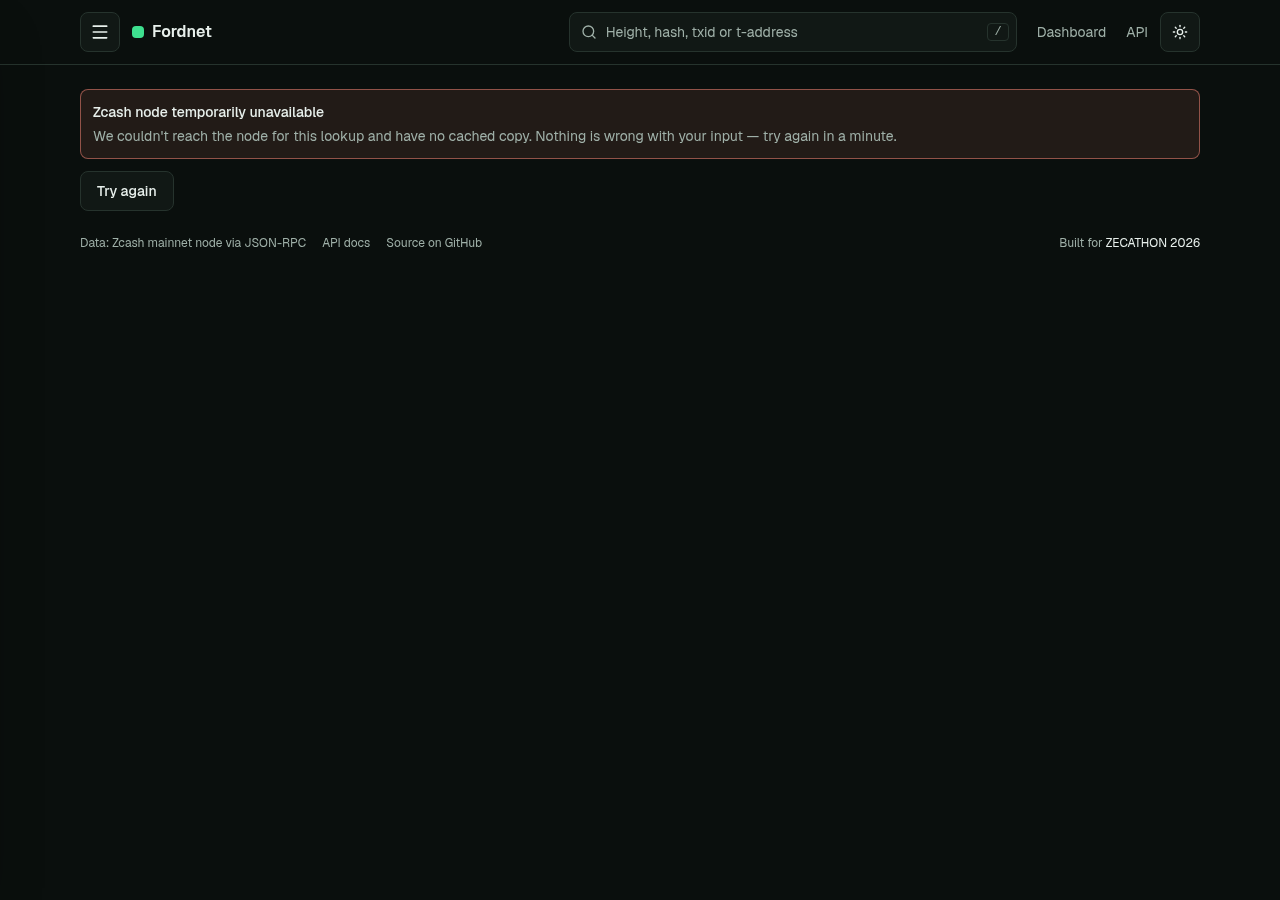
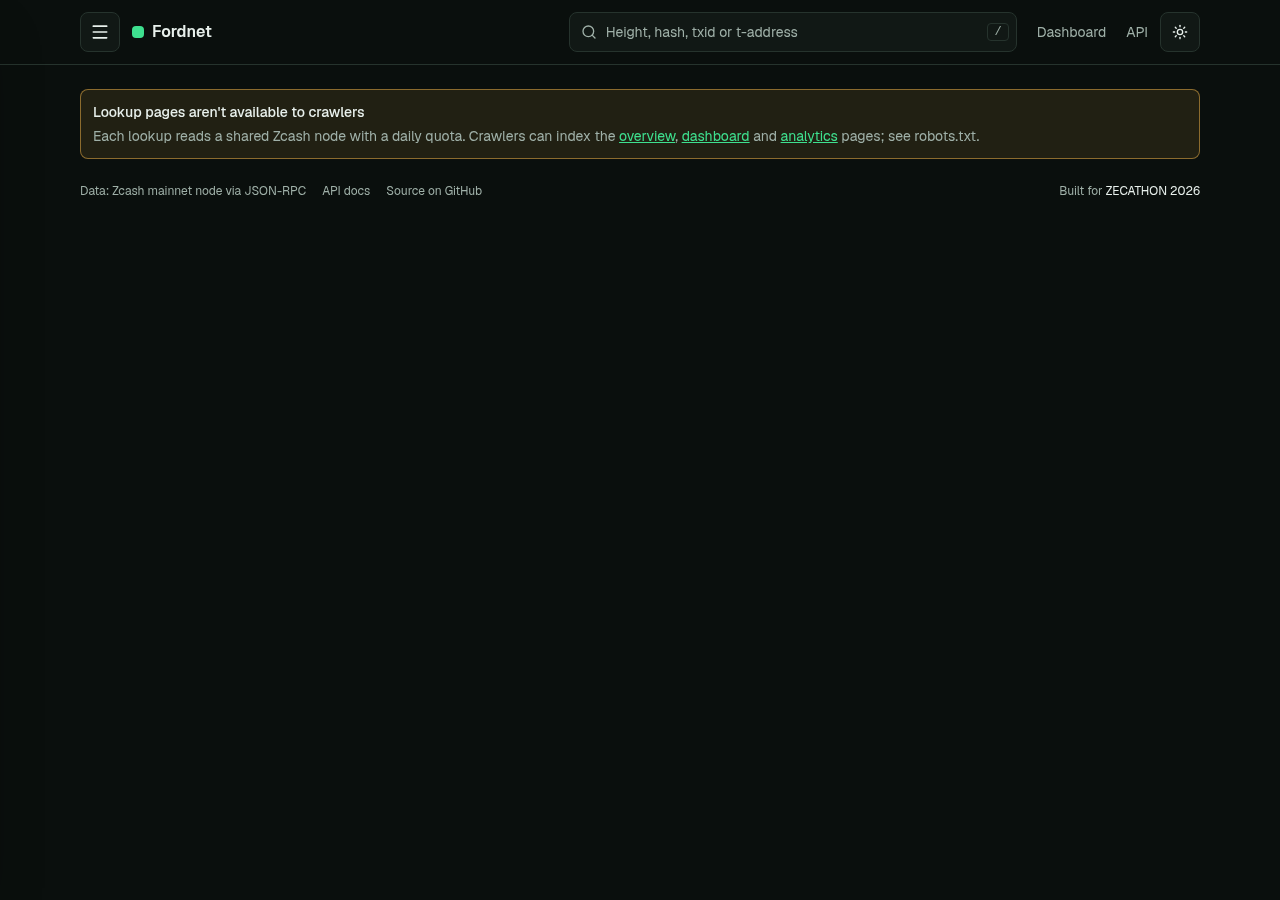
Per-visitor lookup limits (shared Postgres counter, friendly 429 + Retry-After), crawler block, app-wide node-call budget, pool chart rebuilding state

diff --git a/src/lib/service.ts b/src/lib/service.ts
@@ -6,6 +6,13 @@ import { ensureFresh, latestSnapshot, rpcHealth } from "./ingest";
 import { deriveState, syncState } from "./state";
 import { dbAvailable, storageNote, StorageUnavailable, withDb } from "./dbguard";
 import { poolsFrom } from "./pools";
+import { BudgetExhausted, lookupBudgetOk } from "./rpc-budget";
+
+/** Lookups stop at their share of the daily node-call budget (cached results are still served). */
+async function lookupGuard<T>(fn: () => Promise<T>): Promise<T> {
+  if (!lookupBudgetOk()) throw new BudgetExhausted("lookup");
+  return fn();
+}
 import type { AddressInfo, BlockDetail, BlockSummary, NetworkStatus, PoolPoint, PoolRange, RpcBlock, RpcTx, TxDetail, TxSummary } from "./types";
 
 const EMPTY_POOLS = { transparent: null, sprout: null, sapling: null, orchard: null, lockbox: null, ironwood: null };
@@ -60,7 +67,7 @@ async function liveStatus(): Promise<NetworkStatus> {
 let tipCache: { at: number; height: number; hash: string; time: number; txCount: number } | null = null;
 /** Cheap live tip for the pill between 5-min ingests: getblockcount (+ one getblock v1 only when the tip moved). Memoised 60s. */
 async function liveTip(known: NetworkStatus | null) {
-  if (tipCache && Date.now() - tipCache.at < 60_000) return tipCache;
+  if (tipCache && Date.now() - tipCache.at < 120_000) return tipCache;
   const rpc = getRpc();
   const height = await rpc.getBlockCount();
   if (tipCache && tipCache.height === height) return (tipCache = { ...tipCache, at: Date.now() });
@@ -79,7 +86,7 @@ async function fromDb(): Promise<NetworkStatus> {
     snapCache = { at: Date.now(), snap: s, health: h };
   }
   let { snap } = snapCache; const { health } = snapCache;
-  if (snap && snap.snapshotAt !== null && Date.now() - snap.snapshotAt > 90_000) {
+  if (snap && snap.snapshotAt !== null && Date.now() - snap.snapshotAt > 150_000) {
     // overlay the live tip so the pill reflects the chain now, not the last ingest
     const t = await liveTip(snap).catch(() => null);
     if (t) snap = { ...snap, height: t.height, headers: t.height > (snap.headers ?? 0) ? t.height : snap.headers, bestBlockHash: t.hash, lastBlockTime: t.time, lastBlockTxCount: t.txCount, snapshotAt: t.at };
@@ -173,7 +180,7 @@ export async function getBlockDetail(id: string): Promise<BlockDetail | null> {
     const known = await withDb(async () => (await latestSnapshot())?.height ?? null, () => liveCache?.v.height ?? null);
     if (known !== null && Number(id) > known + 1000) return null;
   }
-  const b: RpcBlock | null = row ? (JSON.parse(row.raw) as RpcBlock) : await cached(`block:${id}`, 10 * 60_000, () => getRpc().getBlock(id));
+  const b: RpcBlock | null = row ? (JSON.parse(row.raw) as RpcBlock) : await cached(`block:${id}`, 10 * 60_000, () => lookupGuard(() => getRpc().getBlock(id)));
   if (!b) return null;
   const tip = await withDb(async () => (await latestSnapshot())?.height ?? null, async () => (await liveStatus()).height);
   return {
@@ -186,7 +193,7 @@ export async function getBlockDetail(id: string): Promise<BlockDetail | null> {
 
 export async function getTxDetail(txid: string): Promise<TxDetail | null> {
   // cache the compact summary, never the raw tx (large consolidation txs are many MB of JSON)
-  return cached(`txd:${txid}`, 10 * 60_000, async () => { const t = await getRpc().getRawTransaction(txid); return t ? toTxDetail(t) : null; });
+  return cached(`txd:${txid}`, 10 * 60_000, () => lookupGuard(async () => { const t = await getRpc().getRawTransaction(txid); return t ? toTxDetail(t) : null; }));
 }
 function toTxDetail(t: RpcTx): TxDetail {
   return {
@@ -200,7 +207,7 @@ function toTxDetail(t: RpcTx): TxDetail {
 }
 
 export async function getAddressInfo(address: string): Promise<AddressInfo> {
-  const v = await cached(`addr:${address}`, 60_000, () => fetchAddressInfo(address));
+  const v = await cached(`addr:${address}`, 60_000, () => lookupGuard(() => fetchAddressInfo(address)));
   if (!v) throw new Error("address lookup failed");
   return v;
 }

diff --git a/src/components/pool-chart.tsx b/src/components/pool-chart.tsx
@@ -16,8 +16,9 @@ const SERIES = [
 type SeriesKey = (typeof SERIES)[number]["key"];
 type View = "stacked" | "per";
 
-const axisFmt = new Intl.NumberFormat("en-US", { notation: "compact", maximumSignificantDigits: 5 });
-const fmtAxis = (v: number) => axisFmt.format(v);
+import { axisFor, fmtAxis } from "@/lib/axis";
+
+const rebuilding = (n: number) => `History rebuilding: ${n} day${n === 1 ? "" : "s"} stored so far. The chart appears once 2+ days are available.`;
 
 function MiniTip({ active, payload, label, name }: TooltipContentProps<number, string> & { name: string }) {
   if (!active || !payload?.length) return null;
@@ -43,18 +44,20 @@ function SmallMultiples({ data, reduced }: { data: PoolPoint[]; reduced: boolean
           <li key={s.key} className="rounded-lg border border-border p-3">
             <p className="flex items-center gap-1.5 text-xs text-muted"><i aria-hidden className="inline-block h-2 w-2 rounded-sm" style={{ background: s.color }} />{s.label}</p>
             <p className="num mt-0.5 text-lg font-semibold">{fmtZecExact(last ?? null).replace(/(\.\d{2})\d+/, "$1")}</p>
-            <p className="num text-xs text-muted">{delta === null ? "change not reported" : `${delta >= 0 ? "+" : ""}${delta.toLocaleString("en-US", { minimumFractionDigits: 2, maximumFractionDigits: 2 })} ZEC over range`}</p>
+            <p className="num text-xs text-muted">{vals.length < 2 ? "change appears after 2 days" : delta === null ? "change not reported" : `${delta >= 0 ? "+" : ""}${delta.toLocaleString("en-US", { minimumFractionDigits: 2, maximumFractionDigits: 2 })} ZEC over range`}</p>
+            {vals.length < 2 ? <p className="mt-2 flex h-24 items-center rounded-md border border-dashed border-border px-3 text-xs text-muted">{rebuilding(vals.length)}</p> : (
             <div className="mt-2 h-24" role="img" aria-label={`${s.label} over the selected range; own y-axis scale.`}>
               <ResponsiveContainer width="100%" height="100%">
                 <LineChart data={data} margin={{ top: 4, right: 4, bottom: 0, left: 0 }}>
                   <CartesianGrid stroke="var(--border)" strokeDasharray="3 3" vertical={false} />
                   <XAxis dataKey="date" hide />
-                  <YAxis width={48} domain={["auto", "auto"]} tick={{ fontSize: 10, fill: "var(--muted)" }} tickFormatter={fmtAxis} tickCount={3} />
+                  <YAxis width={48} domain={axisFor(vals).domain} ticks={axisFor(vals).ticks} tick={{ fontSize: 10, fill: "var(--muted)" }} tickFormatter={fmtAxis} />
                   <Tooltip content={(p) => <MiniTip {...(p as TooltipContentProps<number, string>)} name={s.label} />} />
                   <Line type="monotone" dataKey={s.key} stroke={s.color} strokeWidth={2} dot={false} isAnimationActive={!reduced} connectNulls={false} />
                 </LineChart>
               </ResponsiveContainer>
             </div>
+            )}
           </li>
         );
       })}
@@ -122,6 +125,11 @@ export function PoolChart({ points, updatedAt, source }: { points: PoolPoint[]; 
         </div>
       ) : view === "per" ? (
         <SmallMultiples data={data} reduced={reduced} />
+      ) : data.length < 2 ? (
+        <div className="flex h-64 flex-col justify-center gap-2 rounded-lg border border-dashed border-border p-4 text-sm">
+          <p className="text-muted">{rebuilding(data.length)}</p>
+          <ul className="grid grid-cols-2 gap-x-4 gap-y-1 text-xs">{shown.map((s) => <li key={s.key} className="flex items-center gap-1.5"><i aria-hidden className="inline-block h-2 w-2 rounded-sm" style={{ background: s.color }} />{s.label}: <span className="num">{fmtZecExact(data[0][s.key]).replace(/(\.\d{2})\d+/, "$1")}</span></li>)}</ul>
+        </div>
       ) : (
         <div className="h-64 w-full" role="img" aria-label={`Pool values over ${range}. Use "View as table" for exact numbers.`}>
           <ResponsiveContainer width="100%" height="100%">

diff --git a/src/middleware.ts b/src/middleware.ts
@@ -1,4 +1,10 @@
 import { NextResponse, type NextRequest } from "next/server";
+import { clientIp, isPrefetch, VisitorLimiter } from "@/lib/visitor-limit";
+import { sharedLookupHit } from "@/lib/lookup-limit-db";
+
+const limiter = new VisitorLimiter();
+const BOT = /bot\b|crawler|spider|crawl|facebookexternalhit|meta-externalagent|slurp|headless/i;
+const LOOKUP = /^\/(block|tx|address)\/|^\/search$/;
 
 // Malformed ids on detail pages get a real HTTP 400 with the friendly /invalid page.
 const RULES: { prefix: string; kind: string; ok: RegExp }[] = [
@@ -7,8 +13,19 @@ const RULES: { prefix: string; kind: string; ok: RegExp }[] = [
   { prefix: "/address/", kind: "address", ok: /^t[13][1-9A-HJ-NP-Za-km-z]{33}$/ },
 ];
 
-export function middleware(req: NextRequest) {
+export async function middleware(req: NextRequest) {
   const p = req.nextUrl.pathname;
+  if (LOOKUP.test(p) && (p !== "/search" || req.nextUrl.searchParams.get("q"))) {
+    const ua = req.headers.get("user-agent")?.trim();
+    if (!ua) return rewriteTo(req, "/rate-limited", "?reason=agent", 403, {}); // lookups cost node quota; every real browser sends a UA
+    if (BOT.test(ua)) return rewriteTo(req, "/rate-limited", "?reason=bot", 403, { "X-Robots-Tag": "noindex" }); // ~39k crawler hits/day drained the node quota
+    if (!isPrefetch(req.headers)) {
+      const ip = clientIp(req.headers);
+      // shared counter (Postgres) so the limit holds across edge instances; memory limiter if the DB is unavailable
+      const over = await sharedLookupHit(ip).catch(() => limiter.hit(ip));
+      if (over) return rewriteTo(req, "/rate-limited", `?reason=${over.scope}&retry=${over.retryAfterSec}`, 429, { "Retry-After": String(over.retryAfterSec), "Cache-Control": "no-store" });
+    }
+  }
   for (const r of RULES) {
     if (!p.startsWith(r.prefix)) continue;
     const id = decodeURIComponent(p.slice(r.prefix.length));
@@ -20,4 +37,12 @@ export function middleware(req: NextRequest) {
   }
   return NextResponse.next();
 }
-export const config = { matcher: ["/block/:path*", "/tx/:path*", "/address/:path*"] };
+
+function rewriteTo(req: NextRequest, path: string, search: string, status: number, headers: Record<string, string>) {
+  const url = req.nextUrl.clone();
+  url.pathname = path; url.search = search;
+  const res = NextResponse.rewrite(url, { status });
+  for (const [k, v] of Object.entries(headers)) res.headers.set(k, v);
+  return res;
+}
+export const config = { matcher: ["/block/:path*", "/tx/:path*", "/address/:path*", "/search"] };

diff --git a/tests/limits.test.ts b/tests/limits.test.ts
@@ -1,0 +1,42 @@
+import { describe, expect, it } from "vitest";
+import { VisitorLimiter, clientIp, isPrefetch } from "../src/lib/visitor-limit";
+import { _reset, countCall, DAILY_CALL_BUDGET, LOOKUP_SHARE, lookupBudgetOk, totalBudgetOk, flushUsage } from "../src/lib/rpc-budget";
+import { axisFor } from "../src/lib/axis";
+
+describe("VisitorLimiter", () => {
+  it("allows 20/min then 429 with Retry-After, resets after a minute", () => {
+    const l = new VisitorLimiter(20, 200); const t = 1_800_000_000_000;
+    for (let i = 0; i < 20; i++) expect(l.hit("1.2.3.4", t + i)).toBeNull();
+    const r = l.hit("1.2.3.4", t + 30_000); expect(r?.scope).toBe("minute"); expect(r?.retryAfterSec).toBe(30);
+    expect(l.hit("5.6.7.8", t)).toBeNull(); // other visitors unaffected
+    expect(l.hit("1.2.3.4", t + 60_001)).toBeNull();
+  });
+  it("caps 200/day", () => {
+    const l = new VisitorLimiter(1000, 200); const t = Date.UTC(2026, 9, 28, 12);
+    for (let i = 0; i < 200; i++) expect(l.hit("ip", t + i)).toBeNull();
+    const r = l.hit("ip", t + 500); expect(r?.scope).toBe("day"); expect(r?.retryAfterSec).toBe(12 * 3600);
+  });
+  it("reads the client ip and spots prefetches", () => {
+    expect(clientIp(new Headers({ "x-forwarded-for": "9.9.9.9, 10.0.0.1" }))).toBe("9.9.9.9");
+    expect(clientIp(new Headers({ "x-real-ip": "8.8.8.8", "x-forwarded-for": "9.9.9.9" }))).toBe("8.8.8.8");
+    expect(isPrefetch(new Headers({ "next-router-prefetch": "1" }))).toBe(true);
+    expect(isPrefetch(new Headers())).toBe(false);
+  });
+});
+
+describe("daily node-call budget", () => {
+  it("stops lookups at their share, everything at the total", async () => {
+    _reset(Math.ceil(DAILY_CALL_BUDGET * LOOKUP_SHARE) - 1);
+    expect(lookupBudgetOk()).toBe(true); countCall(); expect(lookupBudgetOk()).toBe(false); expect(totalBudgetOk()).toBe(true);
+    await flushUsage(async () => DAILY_CALL_BUDGET); expect(totalBudgetOk()).toBe(false);
+    _reset();
+  });
+});
+
+describe("pool axis", () => {
+  it("never repeats tick labels for a flat series", () => {
+    const { ticks, domain } = axisFor([419942.52]);
+    const labels = ticks.map((t) => new Intl.NumberFormat("en-US", { notation: "compact", maximumSignificantDigits: 5 }).format(t));
+    expect(new Set(labels).size).toBe(labels.length); expect(domain[0]).toBeLessThan(419942.52); expect(domain[1]).toBeGreaterThan(419942.52);
+  });
+});

diff --git a/src/lib/visitor-limit.ts b/src/lib/visitor-limit.ts
@@ -1,0 +1,33 @@
+/** Per-visitor lookup limiter (edge-safe, in-memory per instance). Protects the node provider's daily quota. */
+export const PER_MINUTE = Number(process.env.LOOKUP_LIMIT_PER_MIN ?? 20);
+export const PER_DAY = Number(process.env.LOOKUP_LIMIT_PER_DAY ?? 200);
+
+interface Bucket { minStart: number; min: number; day: string; dayCount: number }
+export class VisitorLimiter {
+  private m = new Map<string, Bucket>();
+  constructor(private perMin = PER_MINUTE, private perDay = PER_DAY, private maxKeys = 20_000) {}
+  /** Counts one lookup. Returns null when allowed, else seconds until the visitor may retry. */
+  hit(key: string, now = Date.now()): { retryAfterSec: number; scope: "minute" | "day" } | null {
+    const day = new Date(now).toISOString().slice(0, 10);
+    let b = this.m.get(key);
+    if (!b || b.day !== day) b = { minStart: now, min: 0, day, dayCount: 0 };
+    if (now - b.minStart >= 60_000) { b.minStart = now; b.min = 0; }
+    if (b.dayCount >= this.perDay) {
+      const d = new Date(now); const reset = Date.UTC(d.getUTCFullYear(), d.getUTCMonth(), d.getUTCDate() + 1);
+      this.set(key, b); return { retryAfterSec: Math.ceil((reset - now) / 1000), scope: "day" };
+    }
+    if (b.min >= this.perMin) { this.set(key, b); return { retryAfterSec: Math.max(1, Math.ceil((b.minStart + 60_000 - now) / 1000)), scope: "minute" }; }
+    b.min++; b.dayCount++; this.set(key, b);
+    return null;
+  }
+  private set(k: string, b: Bucket) {
+    this.m.set(k, b);
+    if (this.m.size > this.maxKeys) this.m.delete(this.m.keys().next().value as string); // bounded memory
+  }
+}
+
+export function clientIp(h: Headers): string {
+  return h.get("x-real-ip")?.trim() || h.get("x-forwarded-for")?.split(",")[0]?.trim() || "unknown";
+}
+/** Link prefetches are not views; don't spend the visitor's budget on them. */
+export const isPrefetch = (h: Headers) => h.get("next-router-prefetch") === "1" || h.get("purpose") === "prefetch" || h.get("sec-purpose")?.includes("prefetch") === true;

diff --git a/src/lib/ingest.ts b/src/lib/ingest.ts
@@ -6,6 +6,7 @@ import { poolsFrom } from "./pools";
 import type { Degraded, NetworkStatus, RpcBlock, RpcBlockchainInfo } from "./types";
 import { INGEST_INTERVAL_MS, syncState } from "./state";
 import { dbAvailable } from "./dbguard";
+import { flushUsage } from "./rpc-budget";
 export { syncState, LAG_THRESHOLD_SEC } from "./state";
 
 const BLOCKS_PER_DAY = 1152; // 75s target spacing
@@ -114,6 +115,7 @@ async function doIngest(opts: IngestOptions): Promise<IngestResult> {
   await db.delete(schema.blocks).where(lte(schema.blocks.height, tip - KEEP_BLOCKS)); // keep the last 100 only
   await db.delete(schema.statusSnapshots).where(lt(schema.statusSnapshots.takenAt, now - 86400_000));
   await db.delete(schema.rpcCache).where(lt(schema.rpcCache.fetchedAt, now - 86400_000));
+  await db.delete(schema.rateLimits).where(lt(schema.rateLimits.day, utcDate(now / 1000 - 86400))); // yesterday and older
 
   // 3) best effort: backfill daily pool snapshots from real block valuePools, within budget
   const have = new Set((await db.select({ d: schema.poolSnapshots.date }).from(schema.poolSnapshots)).map((r) => r.d));
@@ -207,6 +209,13 @@ export async function ensureFresh(maxAgeMs = INGEST_INTERVAL_MS): Promise<void> 
   if (!dbAvailable()) return; // nowhere to store results
   if (Date.now() < nextCheckAt) return;
   nextCheckAt = Date.now() + 60_000;
+  const flush = () => flushUsage(async (day, n) => { // one cheap upsert per instance per minute
+    const key = `rpcCalls:${day}`;
+    const [r] = await (await getDb()).insert(schema.meta).values({ key, value: String(n) })
+      .onConflictDoUpdate({ target: schema.meta.key, set: { value: sql`(${schema.meta.value}::bigint + ${n})::text` } }).returning({ value: schema.meta.value });
+    return Number(r.value);
+  });
+  try { after(flush); } catch { void flush(); }
   try {
     after(() => ingestIfDue({ maxAgeMs }));
   } catch {

diff --git a/src/lib/rpc-budget.ts b/src/lib/rpc-budget.ts
@@ -1,0 +1,29 @@
+/**
+ * App-wide daily cap on node calls (GetBlock free plan: 50,000 CU/day). Counted in memory per instance and
+ * flushed to Postgres at most once a minute (one upsert), so every instance sees an approximate shared total.
+ * Lookups (block/tx/address pages) stop at LOOKUP_SHARE of the budget, leaving headroom for ingest/status.
+ */
+export const DAILY_CALL_BUDGET = Number(process.env.RPC_DAILY_CALL_BUDGET ?? 2000);
+export const LOOKUP_SHARE = Number(process.env.RPC_LOOKUP_SHARE ?? 0.6);
+
+const today = (now = Date.now()) => new Date(now).toISOString().slice(0, 10);
+const state = { day: today(), shared: 0, unflushed: 0 };
+
+function roll(now = Date.now()) { const d = today(now); if (d !== state.day) { state.day = d; state.shared = 0; state.unflushed = 0; } }
+export function countCall() { roll(); state.unflushed++; }
+export function usedToday() { roll(); return state.shared + state.unflushed; }
+export function lookupBudgetOk() { return usedToday() < DAILY_CALL_BUDGET * LOOKUP_SHARE; }
+export function totalBudgetOk() { return usedToday() < DAILY_CALL_BUDGET; }
+
+export class BudgetExhausted extends Error {
+  constructor(public scope: "lookup" | "total") { super(scope === "lookup" ? "Daily lookup budget for the node provider is used up" : "Daily node-call budget is used up"); }
+}
+
+/** Persist this instance's unflushed calls and learn the shared total. `upsert` adds n and returns the new total. */
+export async function flushUsage(upsert: (day: string, n: number) => Promise<number>) {
+  roll();
+  const n = state.unflushed; state.unflushed = 0;
+  try { state.shared = await upsert(state.day, n); } catch { state.unflushed += n; }
+}
+/** test helper */
+export function _reset(shared = 0) { state.day = today(); state.shared = shared; state.unflushed = 0; }

diff --git a/src/app/rate-limited/page.tsx b/src/app/rate-limited/page.tsx
@@ -1,0 +1,18 @@
+import Link from "next/link";
+import type { Metadata } from "next";
+import { Notice } from "@/components/ui";
+export const metadata: Metadata = { title: "Slow down", robots: { index: false } };
+export const dynamic = "force-dynamic";
+
+export default async function RateLimited({ searchParams }: { searchParams: Promise<{ reason?: string; retry?: string }> }) {
+  const { reason, retry } = await searchParams;
+  const secs = Number(retry);
+  if (reason === "agent") return <Notice tone="error" title="Lookups need a browser">Requests without a User-Agent can&apos;t use lookup pages. Scripts can use the <Link className="text-accent-text underline" href="/developers">REST API</Link> with a free key.</Notice>;
+  if (reason === "bot") return <Notice tone="warn" title="Lookup pages aren&apos;t available to crawlers">Each lookup reads a shared Zcash node with a daily quota. Crawlers can index the <Link className="text-accent-text underline" href="/">overview</Link>, <Link className="text-accent-text underline" href="/dashboard">dashboard</Link> and <Link className="text-accent-text underline" href="/analytics">analytics</Link> pages; see robots.txt.</Notice>;
+  const when = reason === "day" ? "tomorrow (00:00 UTC)" : Number.isFinite(secs) && secs > 0 ? `in ${secs} second${secs === 1 ? "" : "s"}` : "in a minute";
+  return (
+    <Notice tone="warn" title="You're looking things up very quickly">
+      Each lookup is read live from a shared Zcash node with a daily quota, so we allow about 20 lookups a minute and 200 a day per visitor. Try again {when}. The <Link className="text-accent-text underline" href="/dashboard">dashboard</Link> and <Link className="text-accent-text underline" href="/analytics">analytics</Link> aren&apos;t limited.
+    </Notice>
+  );
+}

diff --git a/src/lib/lookup-limit-db.ts b/src/lib/lookup-limit-db.ts
@@ -1,0 +1,20 @@
+import { neon } from "@neondatabase/serverless";
+import { PER_DAY, PER_MINUTE } from "./visitor-limit";
+
+/** Shared per-IP lookup counter: one statement (two atomic upserts) per lookup. Edge-safe. Returns null if allowed. */
+export async function sharedLookupHit(ip: string, now = Date.now()): Promise<{ retryAfterSec: number; scope: "minute" | "day" } | null> {
+  const url = process.env.FORDNET_DATABASE_URL || process.env.DATABASE_URL;
+  if (!url) throw new Error("no database");
+  const iso = new Date(now).toISOString(); const day = iso.slice(0, 10); const minute = iso.slice(11, 16);
+  const sql = neon(url);
+  const rows = (await sql.query(
+    `WITH m AS (INSERT INTO rate_limits (bucket, day, count) VALUES ($1, $3, 1) ON CONFLICT (bucket, day) DO UPDATE SET count = rate_limits.count + 1 RETURNING count),
+          d AS (INSERT INTO rate_limits (bucket, day, count) VALUES ($2, $3, 1) ON CONFLICT (bucket, day) DO UPDATE SET count = rate_limits.count + 1 RETURNING count)
+     SELECT (SELECT count FROM m) AS m, (SELECT count FROM d) AS d`,
+    [`lkm:${ip}:${minute}`, `lkd:${ip}`, day],
+  )) as { m: number; d: number }[];
+  const r = rows[0];
+  if (r.d > PER_DAY) { const d = new Date(now); return { retryAfterSec: Math.ceil((Date.UTC(d.getUTCFullYear(), d.getUTCMonth(), d.getUTCDate() + 1) - now) / 1000), scope: "day" }; }
+  if (r.m > PER_MINUTE) return { retryAfterSec: Math.max(1, 60 - new Date(now).getUTCSeconds()), scope: "minute" };
+  return null;
+}

diff --git a/src/lib/api.ts b/src/lib/api.ts
@@ -3,6 +3,7 @@ import { verifyApiKey, DbCounterStore } from "./apikeys";
 import { checkRateLimit, type RateLimitResult } from "./ratelimit";
 import { isMocked } from "./rpc";
 import { StorageUnavailable } from "./dbguard";
+import { BudgetExhausted } from "./rpc-budget";
 
 export interface ApiError { code: string; message: string }
 export interface ApiEnvelope<T> { data: T | null; meta: Record<string, unknown>; error: ApiError | null }
@@ -44,6 +45,7 @@ export async function handleV1<T>(req: NextRequest, produce: () => Promise<T>, o
   } catch (e) {
     if (e instanceof BadRequest) return apiError(400, "bad_request", e.message, headers);
     if (e instanceof NotFound) return apiError(404, "not_found", e.message, headers);
+    if (e instanceof BudgetExhausted) return apiError(503, "node_budget_exhausted", `${e.message} (protects the shared node quota). Stored data endpoints still work; try lookups again after 00:00 UTC.`, headers);
     if (e instanceof StorageUnavailable) return apiError(503, "storage_unavailable", `${e.message}. Try again later.`, headers);
     return apiError(503, "upstream_unavailable", "The Zcash node did not respond (8s timeout, retried once). Try again shortly.", headers);
   }

diff --git a/src/lib/rpc.ts b/src/lib/rpc.ts
@@ -1,5 +1,6 @@
 import type { RpcBlock, RpcBlockchainInfo, RpcMiningInfo, RpcTx, RpcAddressBalance, RpcAddressDelta } from "./types";
 import * as mock from "./mock";
+import { BudgetExhausted, countCall, totalBudgetOk } from "./rpc-budget";
 
 export class RpcError extends Error {
   constructor(message: string, public code: number | null = null) {
@@ -82,6 +83,8 @@ export class HttpRpcClient implements ZcashRpc {
   }
 
   private async once<T>(url: string, method: string, params: unknown[]): Promise<T> {
+    if (!totalBudgetOk()) throw new BudgetExhausted("total");
+    countCall();
     const headers: Record<string, string> = { "content-type": "application/json" };
     if (this.user || this.pass) headers.authorization = "Basic " + Buffer.from(`${this.user ?? ""}:${this.pass ?? ""}`).toString("base64");
     const res = await fetch(url, {

diff --git a/src/app/error.tsx b/src/app/error.tsx
@@ -1,5 +1,5 @@
 "use client";
 import { Notice, btnGhost } from "@/components/ui";
 export default function Err({ reset }: { error: Error; reset: () => void }) {
-  return <div className="space-y-3"><Notice tone="error" title="Zcash node temporarily unavailable">We couldn&apos;t reach the node for this lookup and have no cached copy. Nothing is wrong with your input — try again in a minute.</Notice><button className={btnGhost} onClick={reset}>Try again</button></div>;
+  return <div className="space-y-3"><Notice tone="error" title="Zcash node temporarily unavailable">We couldn&apos;t reach the node for this lookup (or today&apos;s shared lookup budget is used up) and have no cached copy. Nothing is wrong with your input — try again in a minute.</Notice><button className={btnGhost} onClick={reset}>Try again</button></div>;
 }
